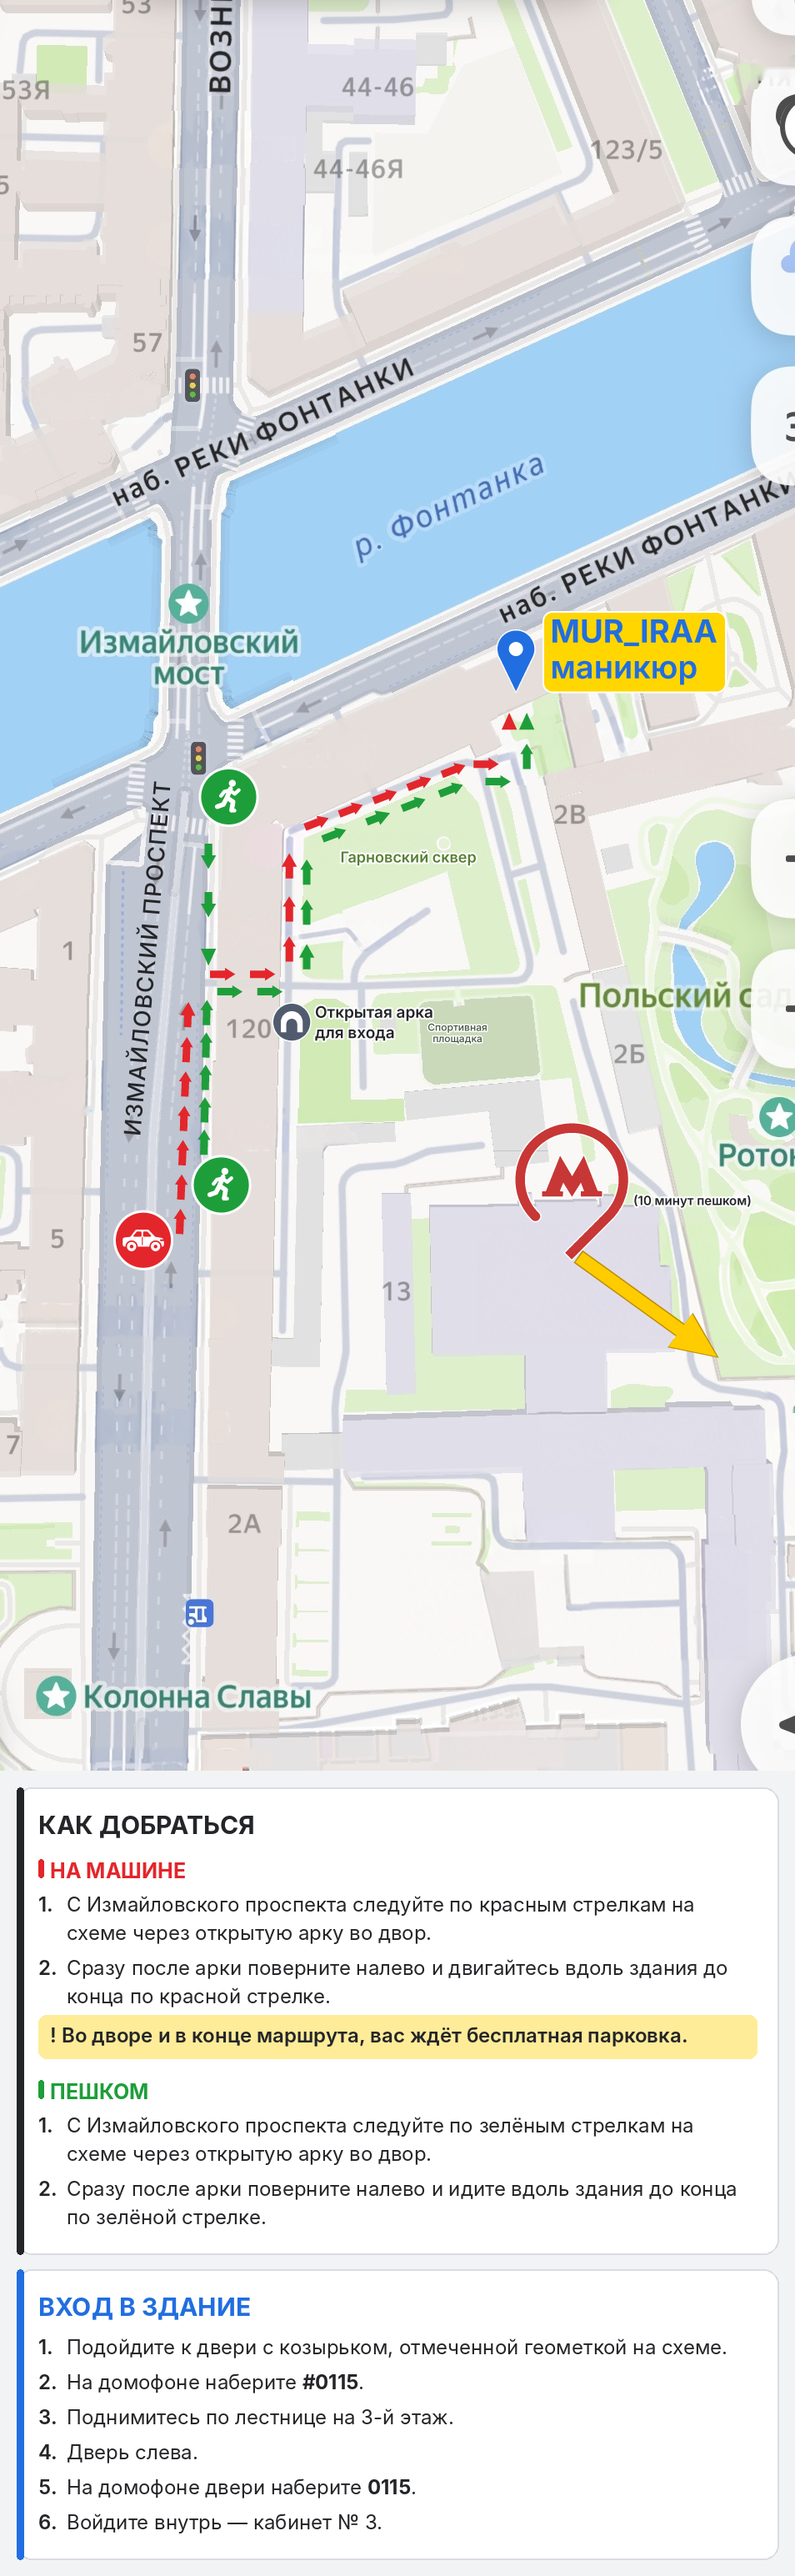
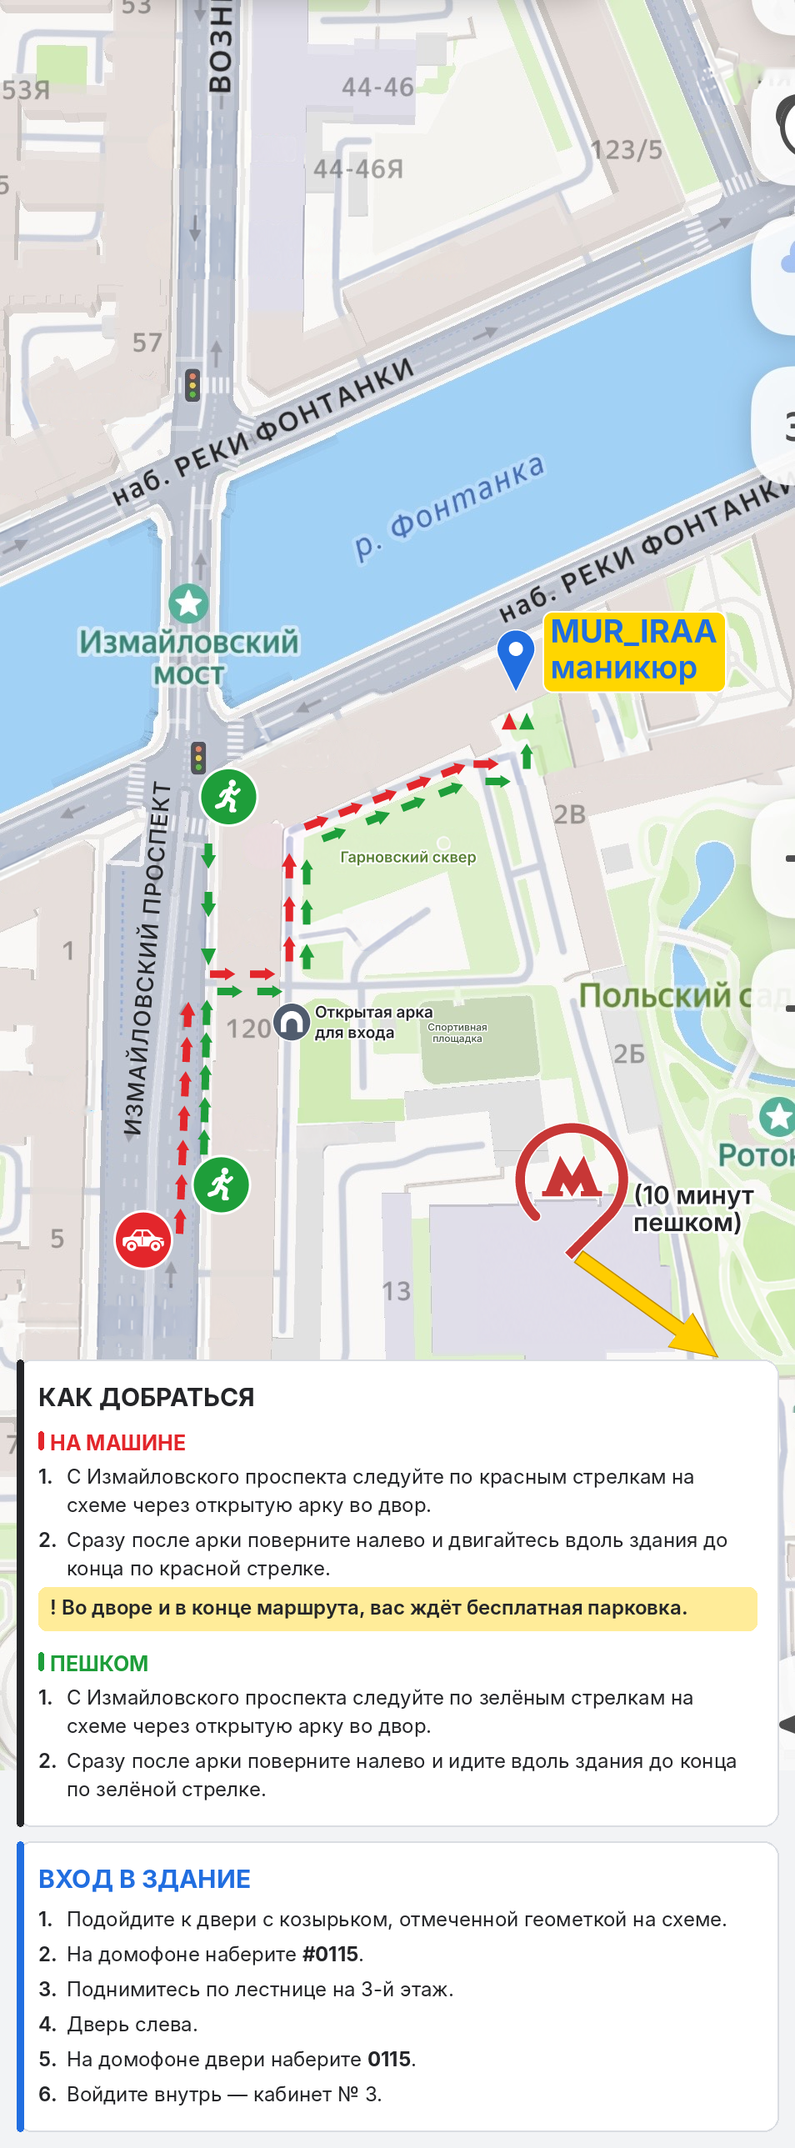
Metro caption 2x; КАК ДОБРАТЬСЯ block moved onto the map
- "(10 минут пешком)" 15 -> 30 px, two lines to fit beside the logo
- block "КАК ДОБРАТЬСЯ" over the map, top level with the end of the
  yellow metro arrow; "ВХОД В ЗДАНИЕ" right below it

Claude-Session: https://claude.ai/code/session_011ZKiB5jfvHUZeSMyHGDLTQ

diff --git a/add_info.py b/add_info.py
@@ -1,8 +1,8 @@
 """Add the metro walking-time caption and the two information blocks to the approved map.
 
   * "(10 минут пешком)" in small type next to the metro logo (overlay, everything else unchanged);
-  * blocks "КАК ДОБРАТЬСЯ" and "ВХОД В ЗДАНИЕ" on a strip appended below the screenshot, so that no part
-    of the map is covered: the original 954x2124 pixels stay as they are (apart from the caption).
+  * block "КАК ДОБРАТЬСЯ" over the lower part of the map, its top level with the end of the yellow metro
+    arrow; block "ВХОД В ЗДАНИЕ" right below it on a strip appended below the screenshot.
 Texts are taken verbatim from the request; codes are set in bold for readability.
 """
 import json
@@ -29,15 +29,18 @@ BLUE = (33, 110, 224)
 
 # ---------- 1. metro caption ----------
 METRO_TEXT = "(10 минут пешком)"
-METRO_POS = (760.0, 1440.0)       # left edge, cap-height centre: right of the logo ring, below "Ротонда"
-mfont = ImageFont.truetype(F.format("SemiBold"), 15 * SS)
+METRO_LINES = ["(10 минут", "пешком)"]  # 30 px does not fit in one line between the logo and the image edge
+METRO_POS = (760.0, 1450.0)       # left edge, centre of the two lines: right of the logo ring, below "Ротонда"
+mfont = ImageFont.truetype(F.format("SemiBold"), 30 * SS)   # 2x the first version (15 px)
 mcap = mfont.getbbox("Н")[3] - mfont.getbbox("Н")[1]
 masc, _ = mfont.getmetrics()
-pos = (METRO_POS[0] * SS, METRO_POS[1] * SS - mcap / 2 - (masc - mcap))
+mline = round(mcap * 1.5)
 txt = Image.new("L", (W * SS, H * SS), 0)
 halo = Image.new("L", (W * SS, H * SS), 0)
-ImageDraw.Draw(txt).text(pos, METRO_TEXT, font=mfont, fill=255)
-ImageDraw.Draw(halo).text(pos, METRO_TEXT, font=mfont, fill=255, stroke_width=2 * SS, stroke_fill=255)
+for i, s_ in enumerate(METRO_LINES):
+    pos = (METRO_POS[0] * SS, METRO_POS[1] * SS - (mcap + mline) / 2 + i * mline - (masc - mcap))
+    ImageDraw.Draw(txt).text(pos, s_, font=mfont, fill=255)
+    ImageDraw.Draw(halo).text(pos, s_, font=mfont, fill=255, stroke_width=3 * SS, stroke_fill=255)
 a_t = cv2.resize(np.asarray(txt), (W, H), interpolation=cv2.INTER_AREA).astype(np.float32) / 255
 a_h = cv2.resize(np.asarray(halo), (W, H), interpolation=cv2.INTER_AREA).astype(np.float32) / 255
 mp = orig.astype(np.float32)
@@ -141,13 +144,18 @@ def layout(block):
 
 
 laid = [layout(b) for b in BLOCKS]
-strip_h = MARGIN + sum(h for _, h in laid) + GAP * (len(laid) - 1) + MARGIN
-canvas = Image.new("RGB", (W, H + strip_h), BG)
+# "КАК ДОБРАТЬСЯ" lies on the map, its top at the level where the yellow metro arrow ends;
+# "ВХОД В ЗДАНИЕ" follows it on the strip appended below the map.
+ARROW_END_Y = 1628                  # lowest drawn pixel of the yellow arrow incl. its contour (measured)
+tops = [ARROW_END_Y + 3]
+for _, h in laid[:-1]:
+    tops.append(max(tops[-1] + h + GAP, H + MARGIN))
+total_h = tops[-1] + laid[-1][1] + MARGIN
+canvas = Image.new("RGB", (W, total_h), BG)
 canvas.paste(Image.fromarray(mp), (0, 0))
 d = ImageDraw.Draw(canvas)
-y0 = H + MARGIN
 cards = []
-for (ops, h), b in zip(laid, BLOCKS):
+for (ops, h), b, y0 in zip(laid, BLOCKS, tops):
     box = [MARGIN, y0, W - MARGIN, y0 + h]
     d.rounded_rectangle(box, radius=RADIUS, fill=WHITE, outline=CARD_EDGE, width=2)
     d.rounded_rectangle([MARGIN, y0, MARGIN + 8, y0 + h], radius=4, fill=b["accent"])
@@ -162,7 +170,6 @@ for (ops, h), b in zip(laid, BLOCKS):
             _, x, y, w, hh, col = op
             d.rounded_rectangle([MARGIN + x, y0 + y, MARGIN + x + w, y0 + y + hh], radius=10, fill=col)
     cards.append(box)
-    y0 += h + GAP
 
 canvas.save(OUT, optimize=True)
 json.dump({"metro_caption": METRO_TEXT, "caption_bbox": caption_bbox, "map_height": H, "cards": cards,

diff --git a/check_info.py b/check_info.py
@@ -23,17 +23,26 @@ def check(name, cond, info=""):
 
 
 H, W = a.shape[:2]
-check("width kept, blocks appended below the map", r.shape[1] == W and r.shape[0] > H, f"{W}x{H} -> {r.shape[1]}x{r.shape[0]}")
-top = r[:H]
-diff = np.any(top != a, -1)
-check("map pixels unchanged except the metro caption", not (diff & ~mask).any(), f"changed {diff.sum()} px")
+check("width kept, strip appended below the map", r.shape[1] == W and r.shape[0] > H, f"{W}x{H} -> {r.shape[1]}x{r.shape[0]}")
+card1_top = meta["cards"][0][1]
+top = r[:card1_top]
+diff = np.any(top != a[:card1_top], -1)
+check("map above the first block unchanged except the metro caption", not (diff & ~mask[:card1_top]).any(),
+      f"changed {diff.sum()} px")
 added = np.any(a != o, -1)
 check("caption covers no route, sign, logo or arrow", not (mask & added).any(), f"{(mask & added).sum()} px")
 ink = cv2.dilate(((o.max(-1) < 175) & (np.abs(o[..., 0] - o[..., 2]) < 25)).astype(np.uint8), np.ones((3, 3), np.uint8)) > 0
 check("caption covers no map text or icon", not (mask & ink).any(), f"{(mask & ink).sum()} px")
 cb = meta["caption_bbox"]
 check("caption next to the metro logo (logo box 618-753, 1347-1510)", 753 < cb[0] < 775 and 1347 < cb[1] and cb[3] < 1510, f"caption box {cb}")
-check("blocks lie entirely below the map", all(c[1] >= H for c in meta["cards"]), f"cards {meta['cards']}")
+check("caption fits inside the image", cb[2] < W, f"right edge {cb[2]} < {W}")
+ys, xs = np.nonzero(np.any(a != o, -1)[1500:1700, 680:900])
+arrow_end = 1500 + ys.max()
+check("'КАК ДОБРАТЬСЯ' starts level with the end of the yellow metro arrow", 0 < card1_top - arrow_end <= 4,
+      f"arrow ends at y {arrow_end}, block top {card1_top}")
+c1, c2 = meta["cards"]
+check("'ВХОД В ЗДАНИЕ' right below the first block, on the appended strip", c2[1] > c1[3] and c2[1] >= H,
+      f"cards {meta['cards']}")
 
 src = open(sys.argv[0].replace("check_info.py", "add_info.py"), encoding="utf-8").read()
 EXPECTED = [
